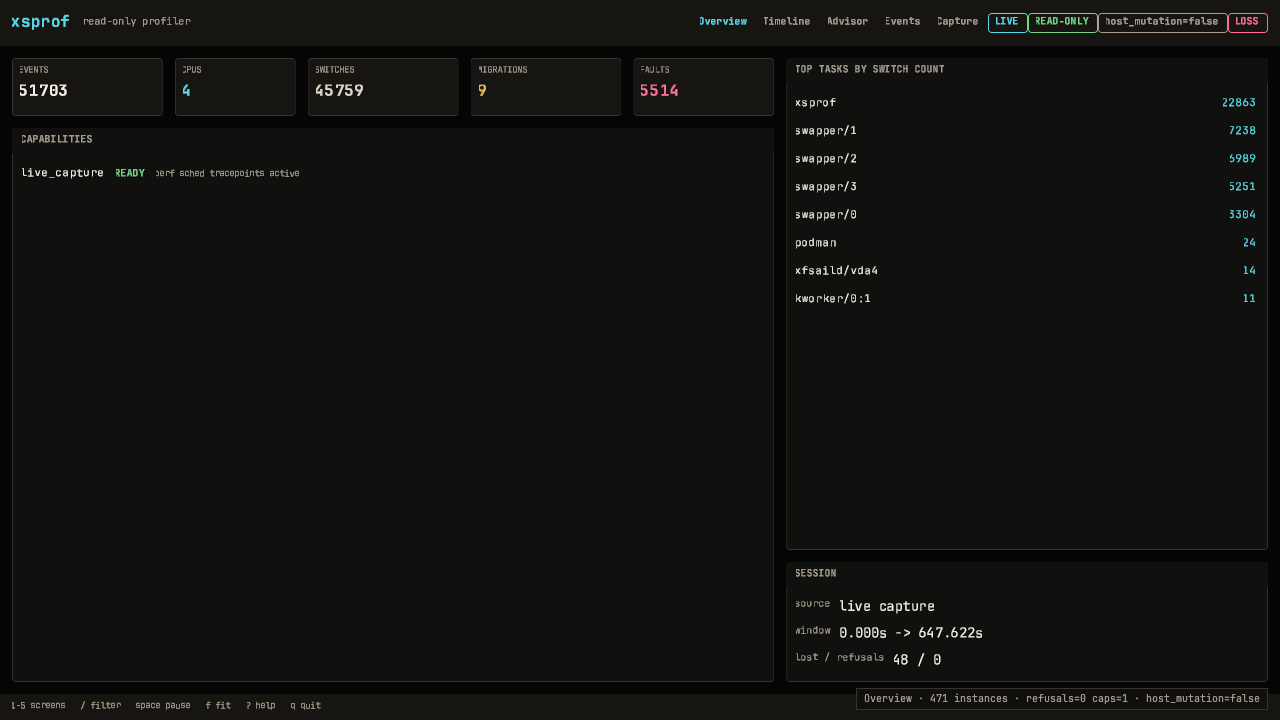
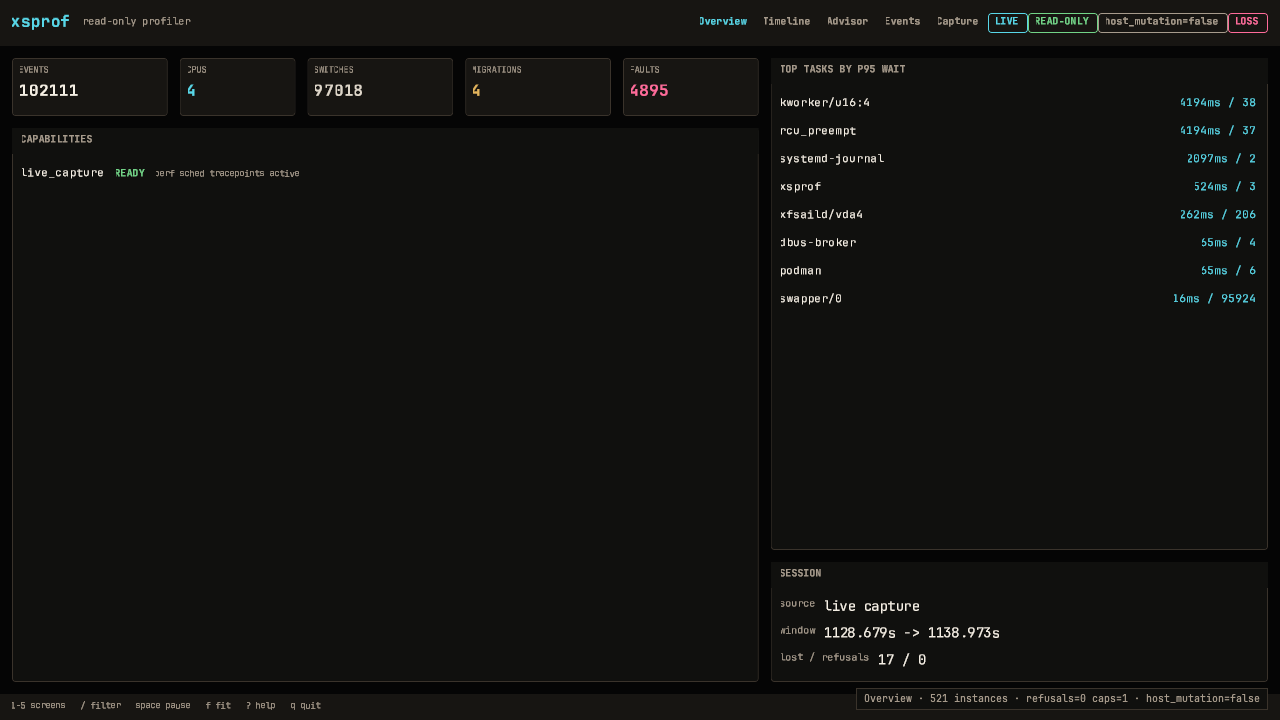
Make live capture long-lived and incremental
The live server now owns one capture instead of reopening rings every
350 ms. The browser appends only new lines through the stable store and
index, and downsample loss is aggregated instead of emitted per batch.

diff --git a/docs/platforms/web.md b/docs/platforms/web.md
@@ -12,8 +12,12 @@ The P3 web surface is a **read-only replay client**:
 - `web/gl.js` uploads that buffer once per frame and draws one instanced
   `TRIANGLE_STRIP` call in WebGL2. There is no JS UI framework, no external
   font/CDN, and no telemetry.
-- `serve --live` starts the Linux perf worker and exposes one-shot SSE batches
-  with `Last-Event-ID` resume; the browser appends new rows in place.
+- `serve --live` keeps one perf capture open for the process lifetime. It
+  exposes one-shot SSE batches with `Last-Event-ID` resume; `--live-stride`
+  controls UI downsampling while loss markers report dropped events. Raw
+  recorder segments remain the full-fidelity path.
+- The browser appends only new NDJSON lines through a stable block store and
+  an incremental session index; it no longer reparses the full journal.
 - `?screen=0..4` selects Overview/Timeline/Advisor/Events/Capture;
   `?theme=light` selects the paper theme; `1..5` switches screens.
 - `/api/meta` is `xsprof/ui-session/v1` with `host_mutation=false` and an event

diff --git a/docs/architecture/roadmap.md b/docs/architecture/roadmap.md
@@ -132,8 +132,10 @@ Status is updated only when a phase gate actually passes.
   event scrolling, file open, pause/follow, native pointer, task filters.
 - **M3 complete for the first slice:** `metrics`, `compare`, JSON/Markdown/
   self-contained HTML reports, `--fail-on wait.p95`, schemas, CI guide.
-- **M4 pending:** replace the `serve --live` 350 ms reopen and 80x downsample
-  with recorder-tail SSE and incremental WASM stores.
+- **M4 core landed:** one long-lived capture in `serve --live`, line-aligned
+  bounded store, incremental WASM store/index, and aggregated loss markers.
+  Remaining: tail the recorder spool instead of the server store, and add
+  pause/follow controls.
 - **M5 pending:** release artifacts, macOS app bundle, Linux packages,
   Homebrew templates, `demo`, first-run flow.
 - **M6 pending:** presets, cgroup attribution, PSI, overhead meter, fuzz,

diff --git a/docs/safety/live-capture.md b/docs/safety/live-capture.md
@@ -47,9 +47,11 @@ is the tested fail-closed behavior.
 
 ## Live SSE and the browser
 
-`xsprof serve --live` starts a capture worker that repeatedly opens the perf
-rings, downsamples (every 80th event) into a bounded 8 MiB store, and emits an
-explicit `sample_loss live_downsample dropped=N` marker per batch. Endpoints:
+`xsprof serve --live` opens one perf capture for the process lifetime. It
+downsamples UI events (`--live-stride`, default 80) into a bounded, line-aligned
+store and aggregates dropped events into one `sample_loss live_downsample`
+marker per second. The browser appends new lines through the incremental store.
+Endpoints:
 
 - `/api/journal` — current snapshot for initial load.
 - `/api/events` — one-shot SSE batches with `id:` offsets and `Last-Event-ID`

diff --git a/README.md b/README.md
@@ -56,7 +56,7 @@ xsprof capabilities --json
 xsprof advise --json|--md
 xsprof timeline --input journal.jsonl [--window start:end] [--chunk-size N]
 xsprof record --duration ms [--output journal.jsonl]
-xsprof serve [--journal journal.jsonl] [--live]
+xsprof serve [--journal journal.jsonl] [--live] [--live-stride N]
 xsprof snapshot [--replay journal.jsonl]
 xsprof daemon --foreground --dir /var/lib/xsprof
 xsprof capture --last 5m --dir /var/lib/xsprof
